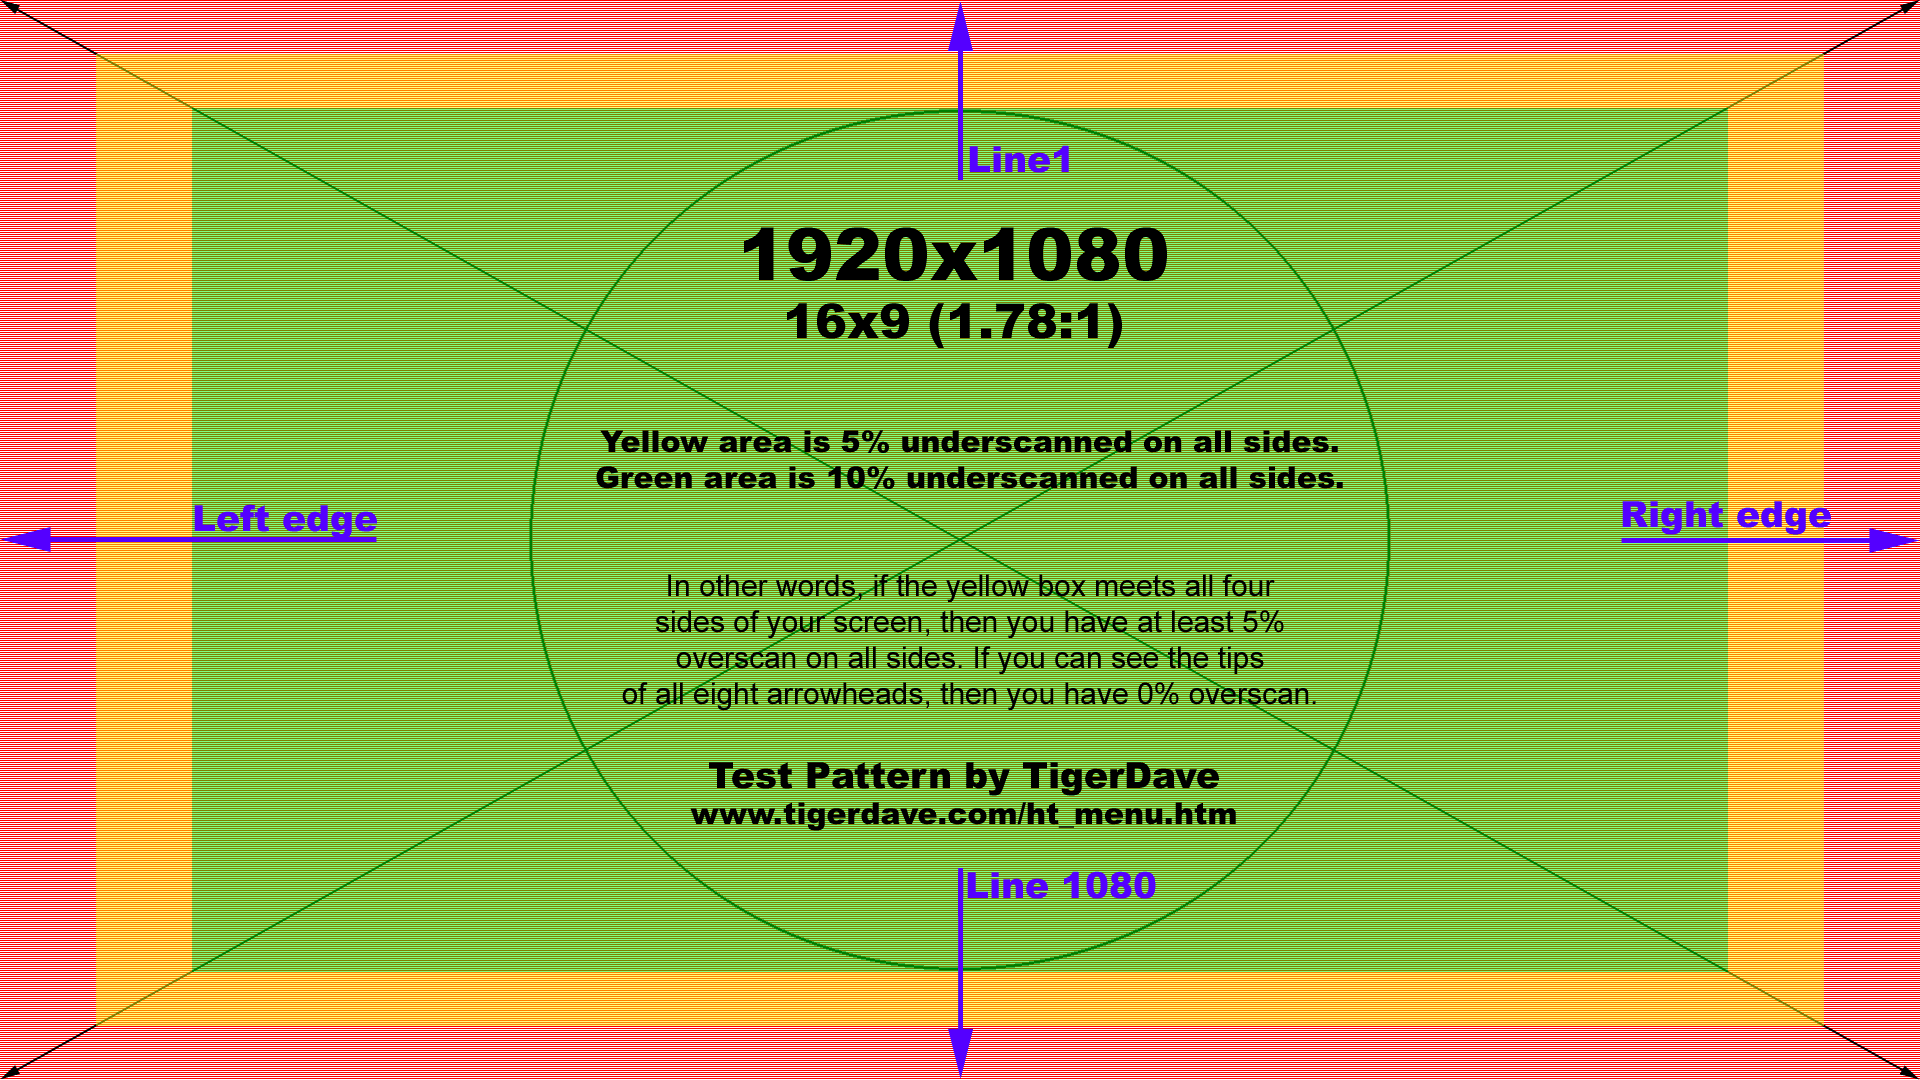
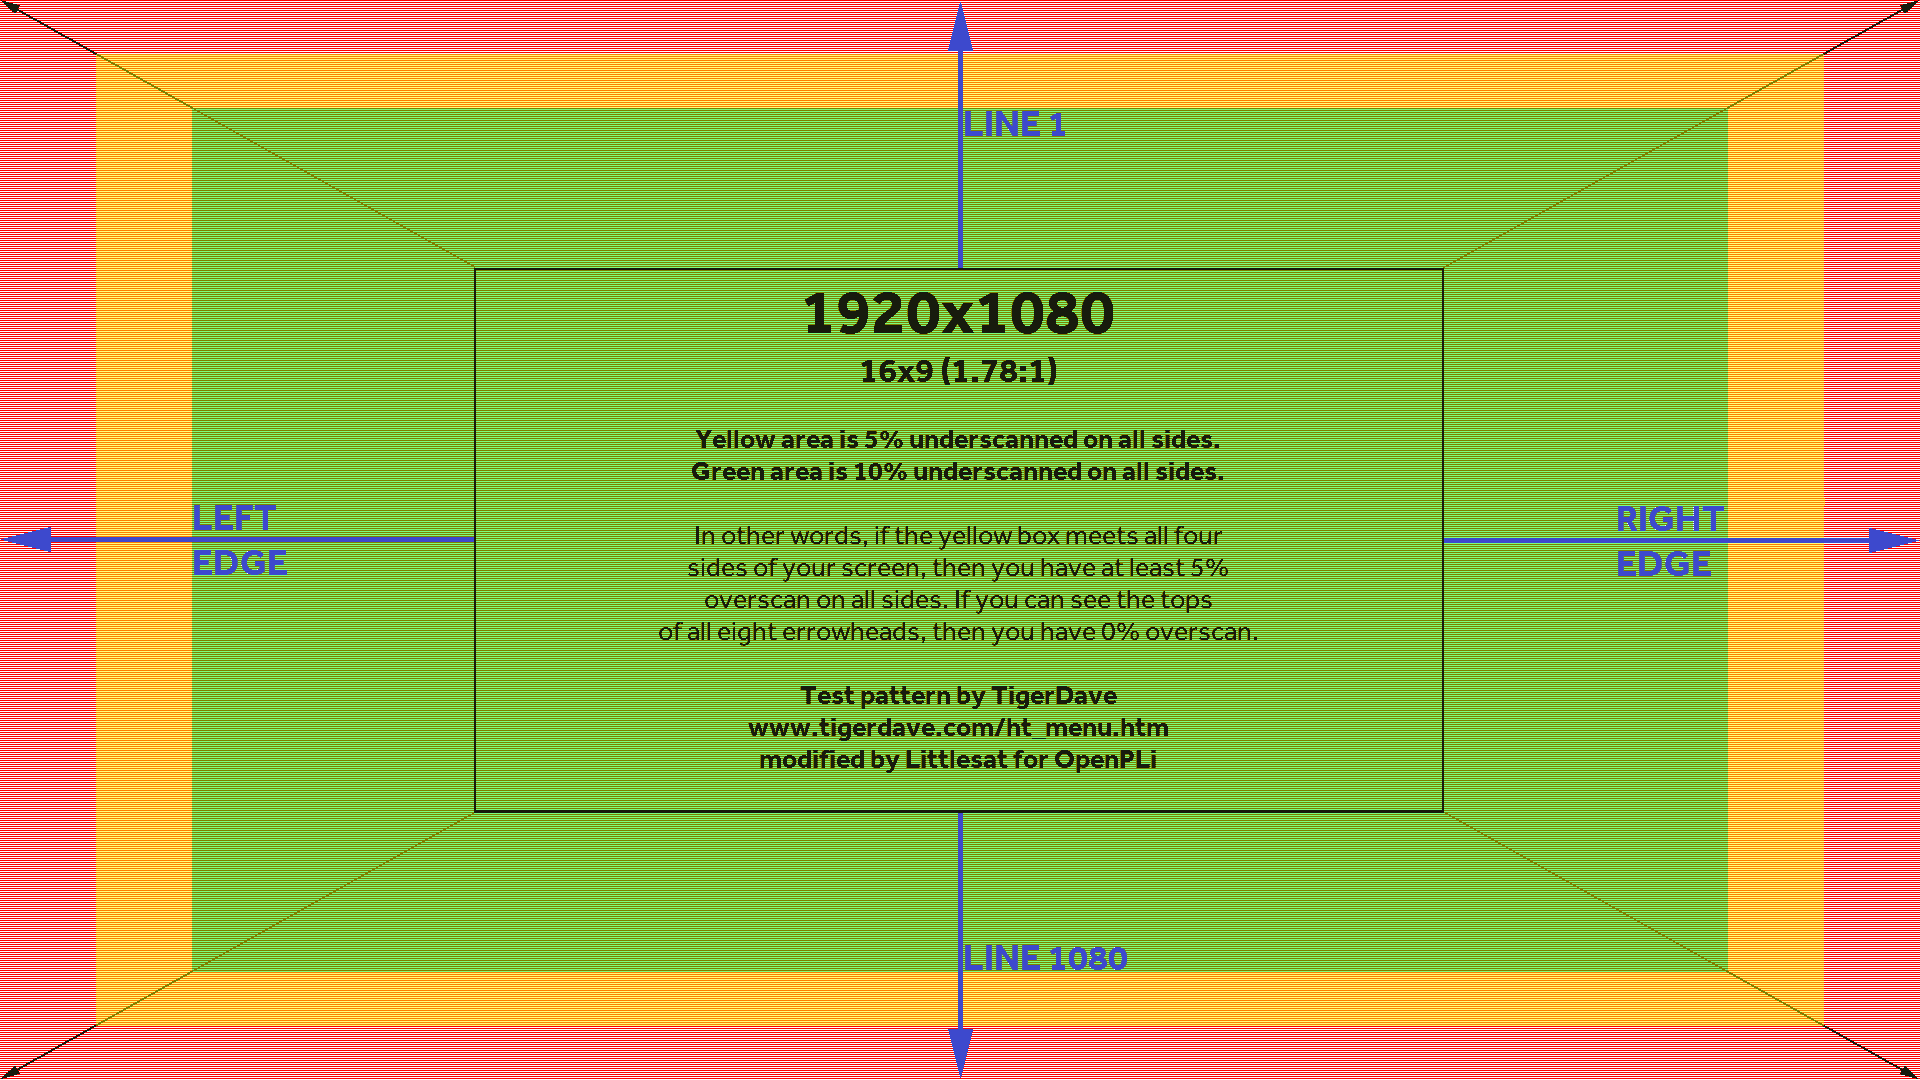
Overscanbrowser: Some cosmetic finetuning
Adjust OSD box to the diagonal lines. Currently only done for the
1920x1080 screen. We need to consider to adapt also the 1280x720 screen

diff --git a/lib/python/Plugins/SystemPlugins/OSDPositionSetup/overscanwizard.py b/lib/python/Plugins/SystemPlugins/OSDPositionSetup/overscanwizard.py
@@ -11,10 +11,10 @@ class OverscanWizard(Screen, ConfigListScreen):
 		if getDesktop(0).size().height() == 1080:
 			self.skin = """<screen position="fill" flags="wfNoBorder">
 				<ePixmap pixmap="overscan1920x1080.png" position="0,0" size="1920,1080" zPosition="3" alphatest="on"/>
-				<eLabel position="378,180" size="1244,686" zPosition="3"/>
-				<widget name="title" position="383,185" size="1234,50" font="Regular;40" foregroundColor="blue" zPosition="4"/>
-				<widget name="introduction" position="383,235" size="1234,623" halign="center" valign="center" font="Regular;30" zPosition="4"/>
-				<widget name="config" position="383,635" size="1234,226" font="Regular;30" itemHeight="40" zPosition="4"/>
+				<eLabel position="338,190" size="1244,698" zPosition="3"/>
+				<widget name="title" position="353,202" size="1224,50" font="Regular;40" foregroundColor="blue" zPosition="4"/>
+				<widget name="introduction" position="343,252" size="1234,623" halign="center" valign="center" font="Regular;30" zPosition="4"/>
+				<widget name="config" position="343,662" size="1234,226" font="Regular;30" itemHeight="40" zPosition="4"/>
 			</screen>"""
 		else:
 			self.skin = """<screen position="fill"  flags="wfNoBorder">
@@ -60,7 +60,7 @@ class OverscanWizard(Screen, ConfigListScreen):
 		from enigma import eSize, ePoint
 		if getDesktop(0).size().height() == 1080:
 			lenlist = len(self.list)*40
-			self["config"].instance.move(ePoint(383, 863 - lenlist))
+			self["config"].instance.move(ePoint(343, 873 - lenlist))
 			self["config"].instance.resize(eSize(1234, lenlist))
 			self["introduction"].instance.resize(eSize(1234, 623 - lenlist))
 		else:
